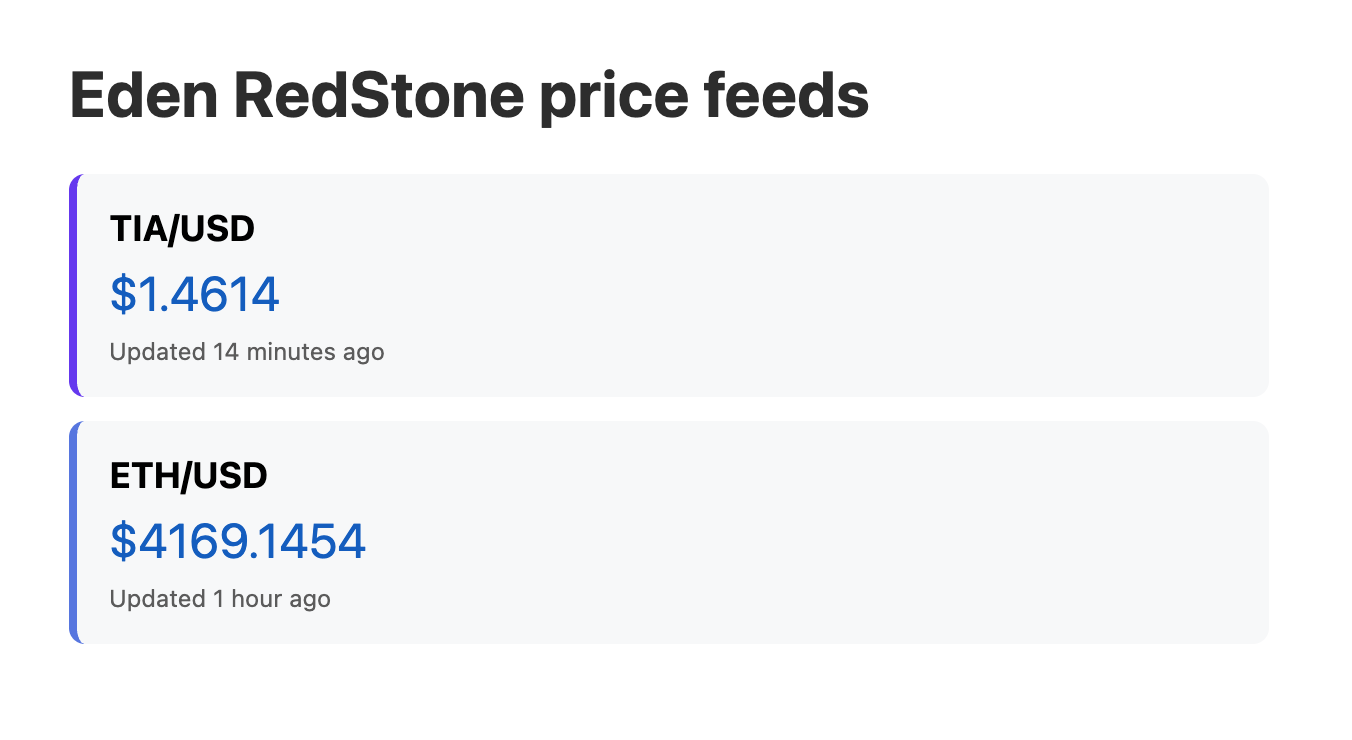
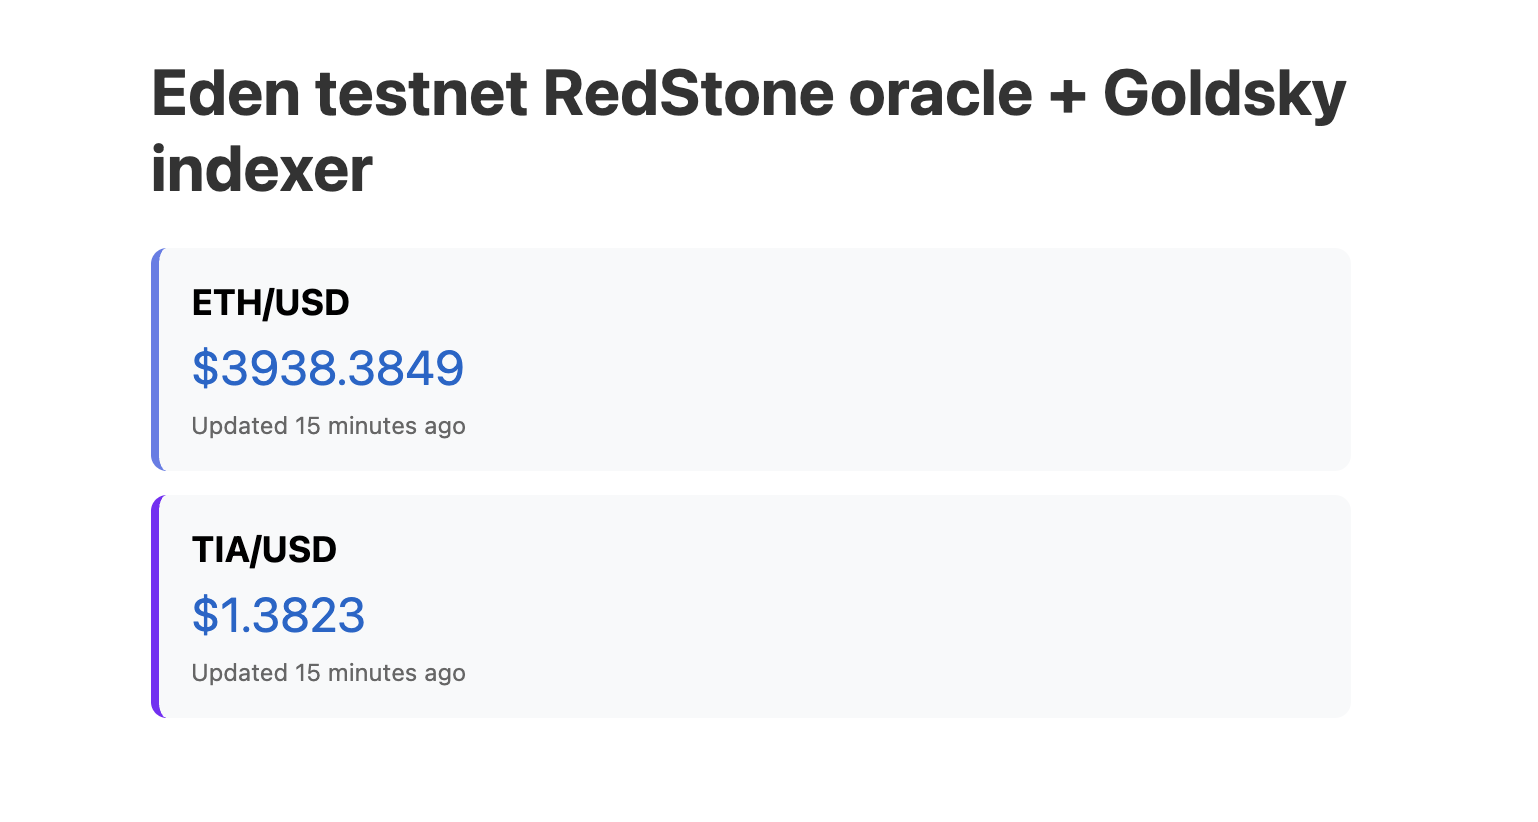
docs: add indexer + oracle demo

Changed region(s): [[0.0311, 0.0622, 0.9009, 0.2486], [0.0311, 0.2486, 0.3107, 0.5595], [0.0311, 0.5595, 0.3107, 0.8703]]

diff --git a/app/tooling/indexers/_meta.js b/app/tooling/indexers/_meta.js
@@ -1,0 +1,5 @@
+export default {
+  overview: 'Overview of indexers',
+  quickstart: 'Quickstart with Goldsky (and RedStone oracle)',
+  example: 'Example with Goldsky (and RedStone oracle)'
+}